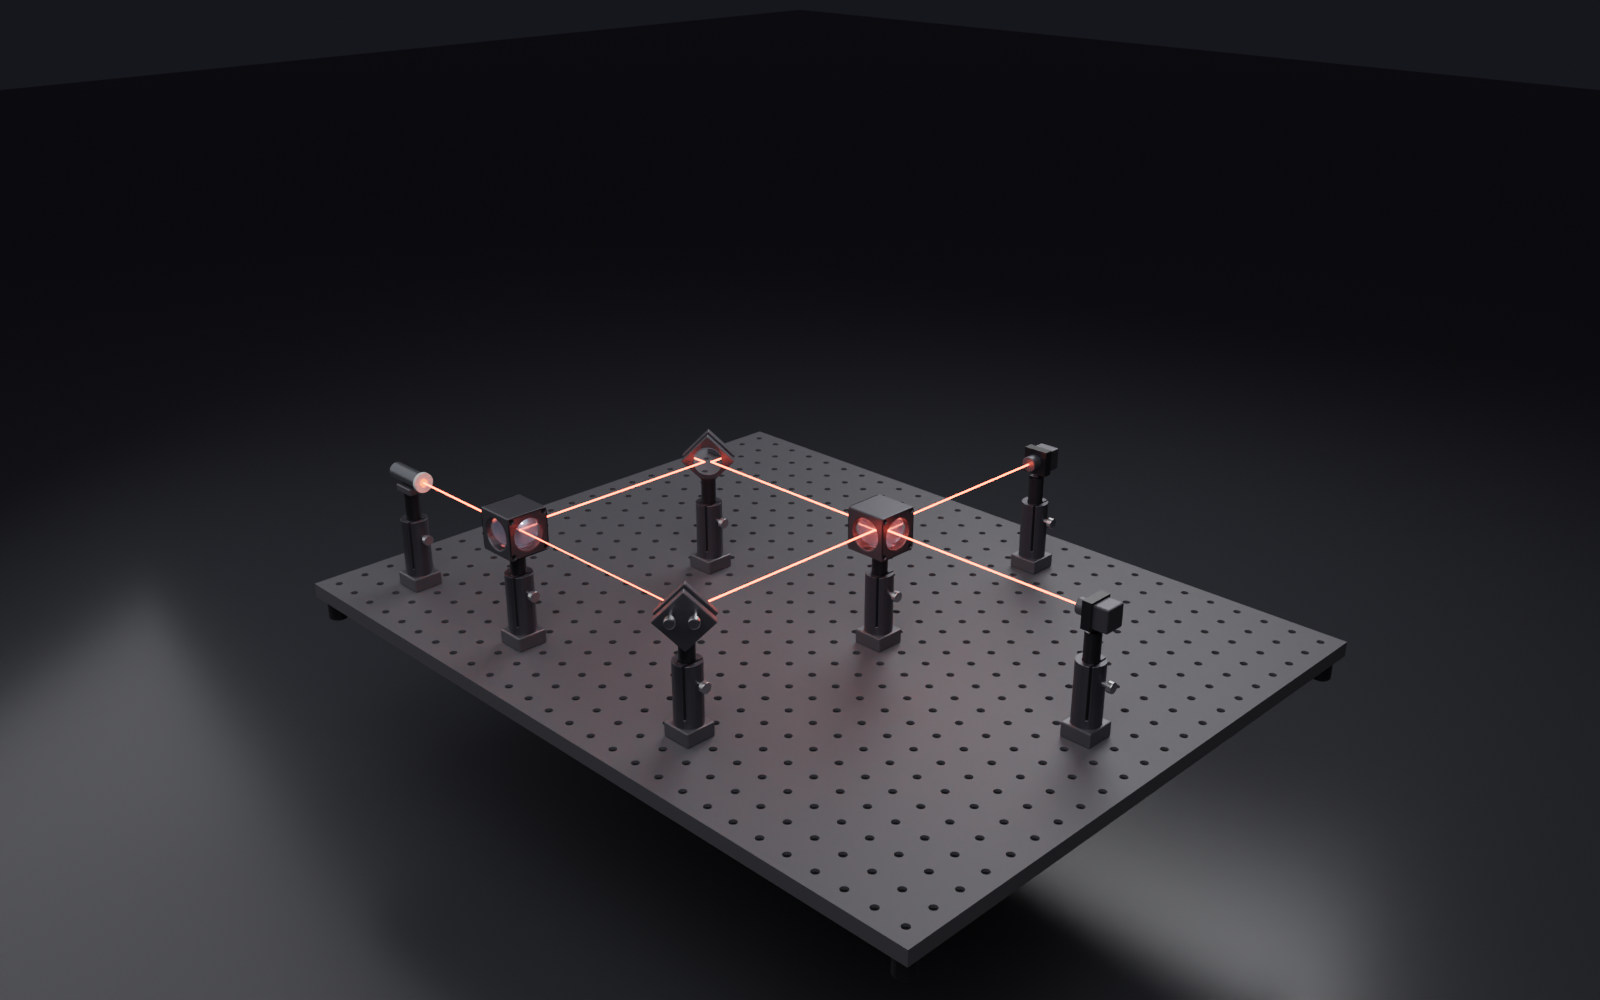
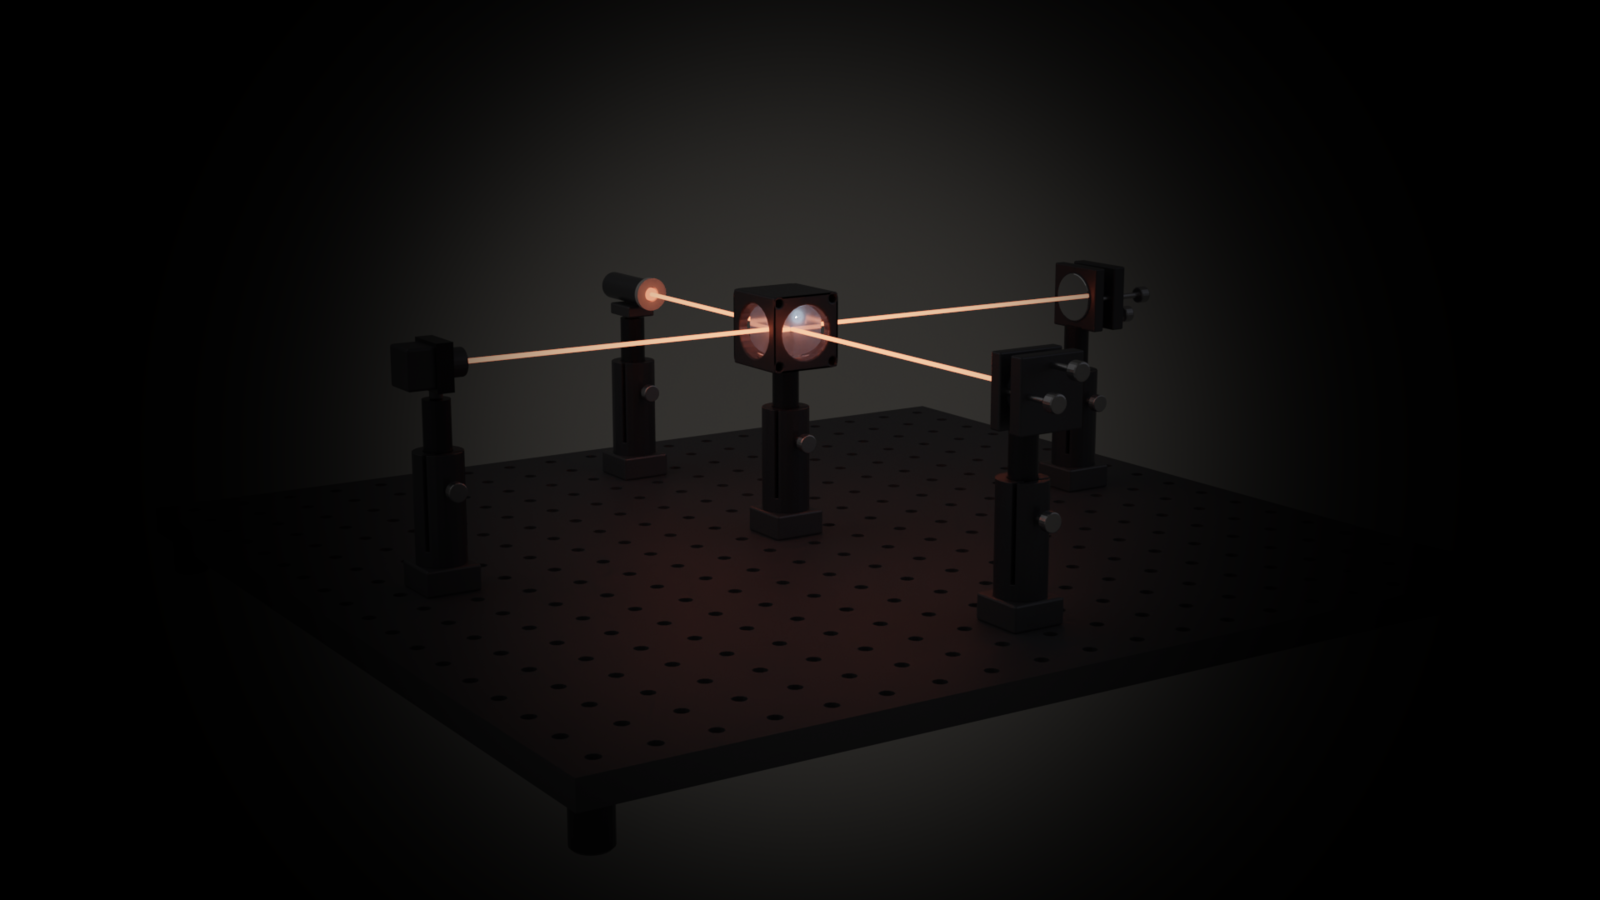
docs: refresh hero + GIFs in the dark cinematic look
- hero.png: a fresh low-angle Michelson hero render (240-sample Cycles, dressed
  bench, glowing beams, subtle vignette), added near the top of the README
- agent-align.gif: rebuilt from the v0.9.x +4° walk footage (beam clearly misses
  the sensor, then steers onto it) — 1080p-era dark warm palette
- michelson-orbit.gif: fresh seamless Cycles turntable of the dressed Michelson

All three now match the showcase film's look; sizes kept reasonable for the README.

diff --git a/README.md b/README.md
@@ -26,6 +26,10 @@ can *see* and *close the loop* on.
 
 <p align="center"><em><b>An agent drives a real bench.</b> A kinematic mirror is knocked out of alignment, so the beam misses the detector — then one <code>optics_api.align_element()</code> call solves the pointing residual (7.0 → 0.001 mrad) and the beam locks onto the sensor. Drivable from the UI, a script, or an AI agent over MCP — see <a href="examples/agent_align.py"><code>examples/agent_align.py</code></a>.</em></p>
 
+<p align="center">
+  <img src="docs/img/hero.png" width="82%" alt="A Michelson interferometer on a tapped breadboard, built and traced in Blender — kinematic mounts and posts, the two arms' beams baked to glowing emission tubes, rendered in Cycles">
+</p>
+
 ---
 
 ## The core loop
